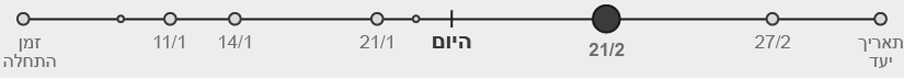
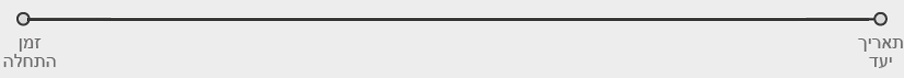
timeline

diff --git a/public/resources/css/screen.css b/public/resources/css/screen.css
@@ -542,7 +542,7 @@ div.box p{ color:#878787; margin-bottom:5px; line-height:20px; font-size:180%;}
 div.box p a{ color:#878787; text-decoration:none;}
 
 div.timeline div.box.user-area{width:150px; left:242px;}
-div.timeline div.box.description{width:170px; left:40px;}
+div.timeline div.box.description{width:170px;}
 div.timeline div.box.description p{ text-align:center;}
 div.timeline div.box.description a.button{ margin-top:10px; width:140px; font-size:180%; height:30px; line-height:30px; text-align:center;}
 
@@ -699,4 +699,21 @@ div.box.post a.button1{ margin:0px auto -25px; position:relative;}
 .hot_info_content {
     overflow: hidden;
     height: 92px;
+}
+
+.action_timeline{
+    position:absolute;width: 35px;height: 39px;left: 0px;top: -10px;
+}
+.action_timeline .action_circle
+{
+    position:absolute; width:18px; height:18px;left: 9px; background-image:url('../images/assets/circle.png')
+}
+
+.action_timeline .action_date
+{
+    position: absolute; top: 26px; width: 100%; text-align: center;
+}
+.action_timeline .box.description
+{
+    position: absolute; top: -159px; left: -90px;
 }

diff --git a/public/javascripts/cyclePage.js b/public/javascripts/cyclePage.js
@@ -1,0 +1,28 @@
+
+function loadCyclePage(cycle_id,start_date, finish_date){
+    db_functions.getCycleById(cycle_id,function(err,cycle)
+    {
+        var start_date = Date.parse(cycle.creation_date);
+        var span = Date.parse(cycle.due_date) - start_date ;
+        db_functions.getActionsByCycle(cycle_id,function(err,data)
+        {
+            data.objects.push({
+                execution_date:new Date()
+            });
+            data.objects.forEach(function(elm)
+            {
+                elm.get_left = function(){
+                    var x = new Date(Date.parse(elm.execution_date)) - start_date;
+                    return (x/span)*100.0;
+                };
+            });
+            dust.renderArray('action_timeline',data.objects,null,function(err,out){
+                $('#timeline_placeholder').append(out);
+                $('#timeline_placeholder .action_timeline .action_circle').click(function(){
+                    $('.box.description', $(this).parents('.action_timeline')).fadeToggle();
+                });
+            });
+        });
+
+    });
+}

diff --git a/public/javascripts/lists.js b/public/javascripts/lists.js
@@ -102,7 +102,7 @@ function loadListItems(original_type,template_name,subject,tag) {
         {
             case 'discussions':
                     db_functions.joinToDiscussionFollowers(item_id,function(){
-                        alert('צורפת');
+
                     });
                 break;
             case 'actions':
@@ -117,4 +117,14 @@ function loadListItems(original_type,template_name,subject,tag) {
                 break;
         }
     });
+
+    if(original_type == 'cycles')
+    {
+        $('#mainList').on('click','.join_action_button',function(){
+            var item_id = $(this).attr('item_id');
+            db_functions.joinToAction(item_id,function(){
+
+            });
+        });
+    }
 }

diff --git a/public/javascripts/db.js b/public/javascripts/db.js
@@ -867,10 +867,12 @@ var db_functions = {
             async: true,
             success: function (data) {
                 console.log(data);
+                callback(null,data);
             },
 
             error: function (xhr, ajaxOptions, thrownError) {
                 console.log(thrownError);
+                callback(thrownError);
             }
         });
     },
@@ -1034,7 +1036,7 @@ function image_autoscale(obj, params)
 };
 
 dust.filters['date'] = function(a){
-    return $.datepicker.formatDate('dd-mm-yy', new Date(Date.parse(a)));;
+    return $.datepicker.formatDate('dd/mm', new Date(Date.parse(a)));;
 };
 
 dust.filters['time'] = function(a){

diff --git a/compile_templates.js b/compile_templates.js
@@ -25,7 +25,9 @@ writer.write(compile_template('pending_action_list_item','pendingActionListItem.
 writer.write(compile_template('action_list_item','actionListItem.html'));
 writer.write(compile_template('discussion_list_item','discussionListItem.html'));
 writer.write(compile_template('cycle_list_item','cycleListItem.html'));
-writer.write(compile_template('discussion_full_view','discussionFullView.html'))
+writer.write(compile_template('discussion_full_view','discussionFullView.html'));
+writer.write(compile_template('action_timeline','action_timeline.html'))
+
 
 
 //writer.write(compile_template('template_name','template_file.html'));

diff --git a/templates/action_timeline.html b/templates/action_timeline.html
@@ -1,0 +1,13 @@
+<div class="action_timeline" style="left:{get_left}%">
+    <div class="action_circle">
+    </div><div class="action_date" >{execution_date|date}</div>
+    <div class="box description" style="display:none; ">
+        <div class="box-inner clearfix">
+            <p>
+{title} | {execution_date|date}
+                <br/>
+{num_of_going} | {users.length}
+            </p>
+            <a href="javascript:void(0)" class="button">הצטרף</a> <span class="arrow2"></span> </div>
+    </div>
+</div>

diff --git a/models.js b/models.js
@@ -200,6 +200,7 @@ var Schemas = exports.Schemas = {
 
     Cycle: new Schema({
         creation_date: {type:Date, 'default':Date.now},
+        due_date : {type:Date, 'default':function(){ return Date.now() + 1000*3600*24*30;  }},
         subject:[{
             id:{type:ObjectId, ref:'Subject', index:true, required:true},
             name: {type:String}
